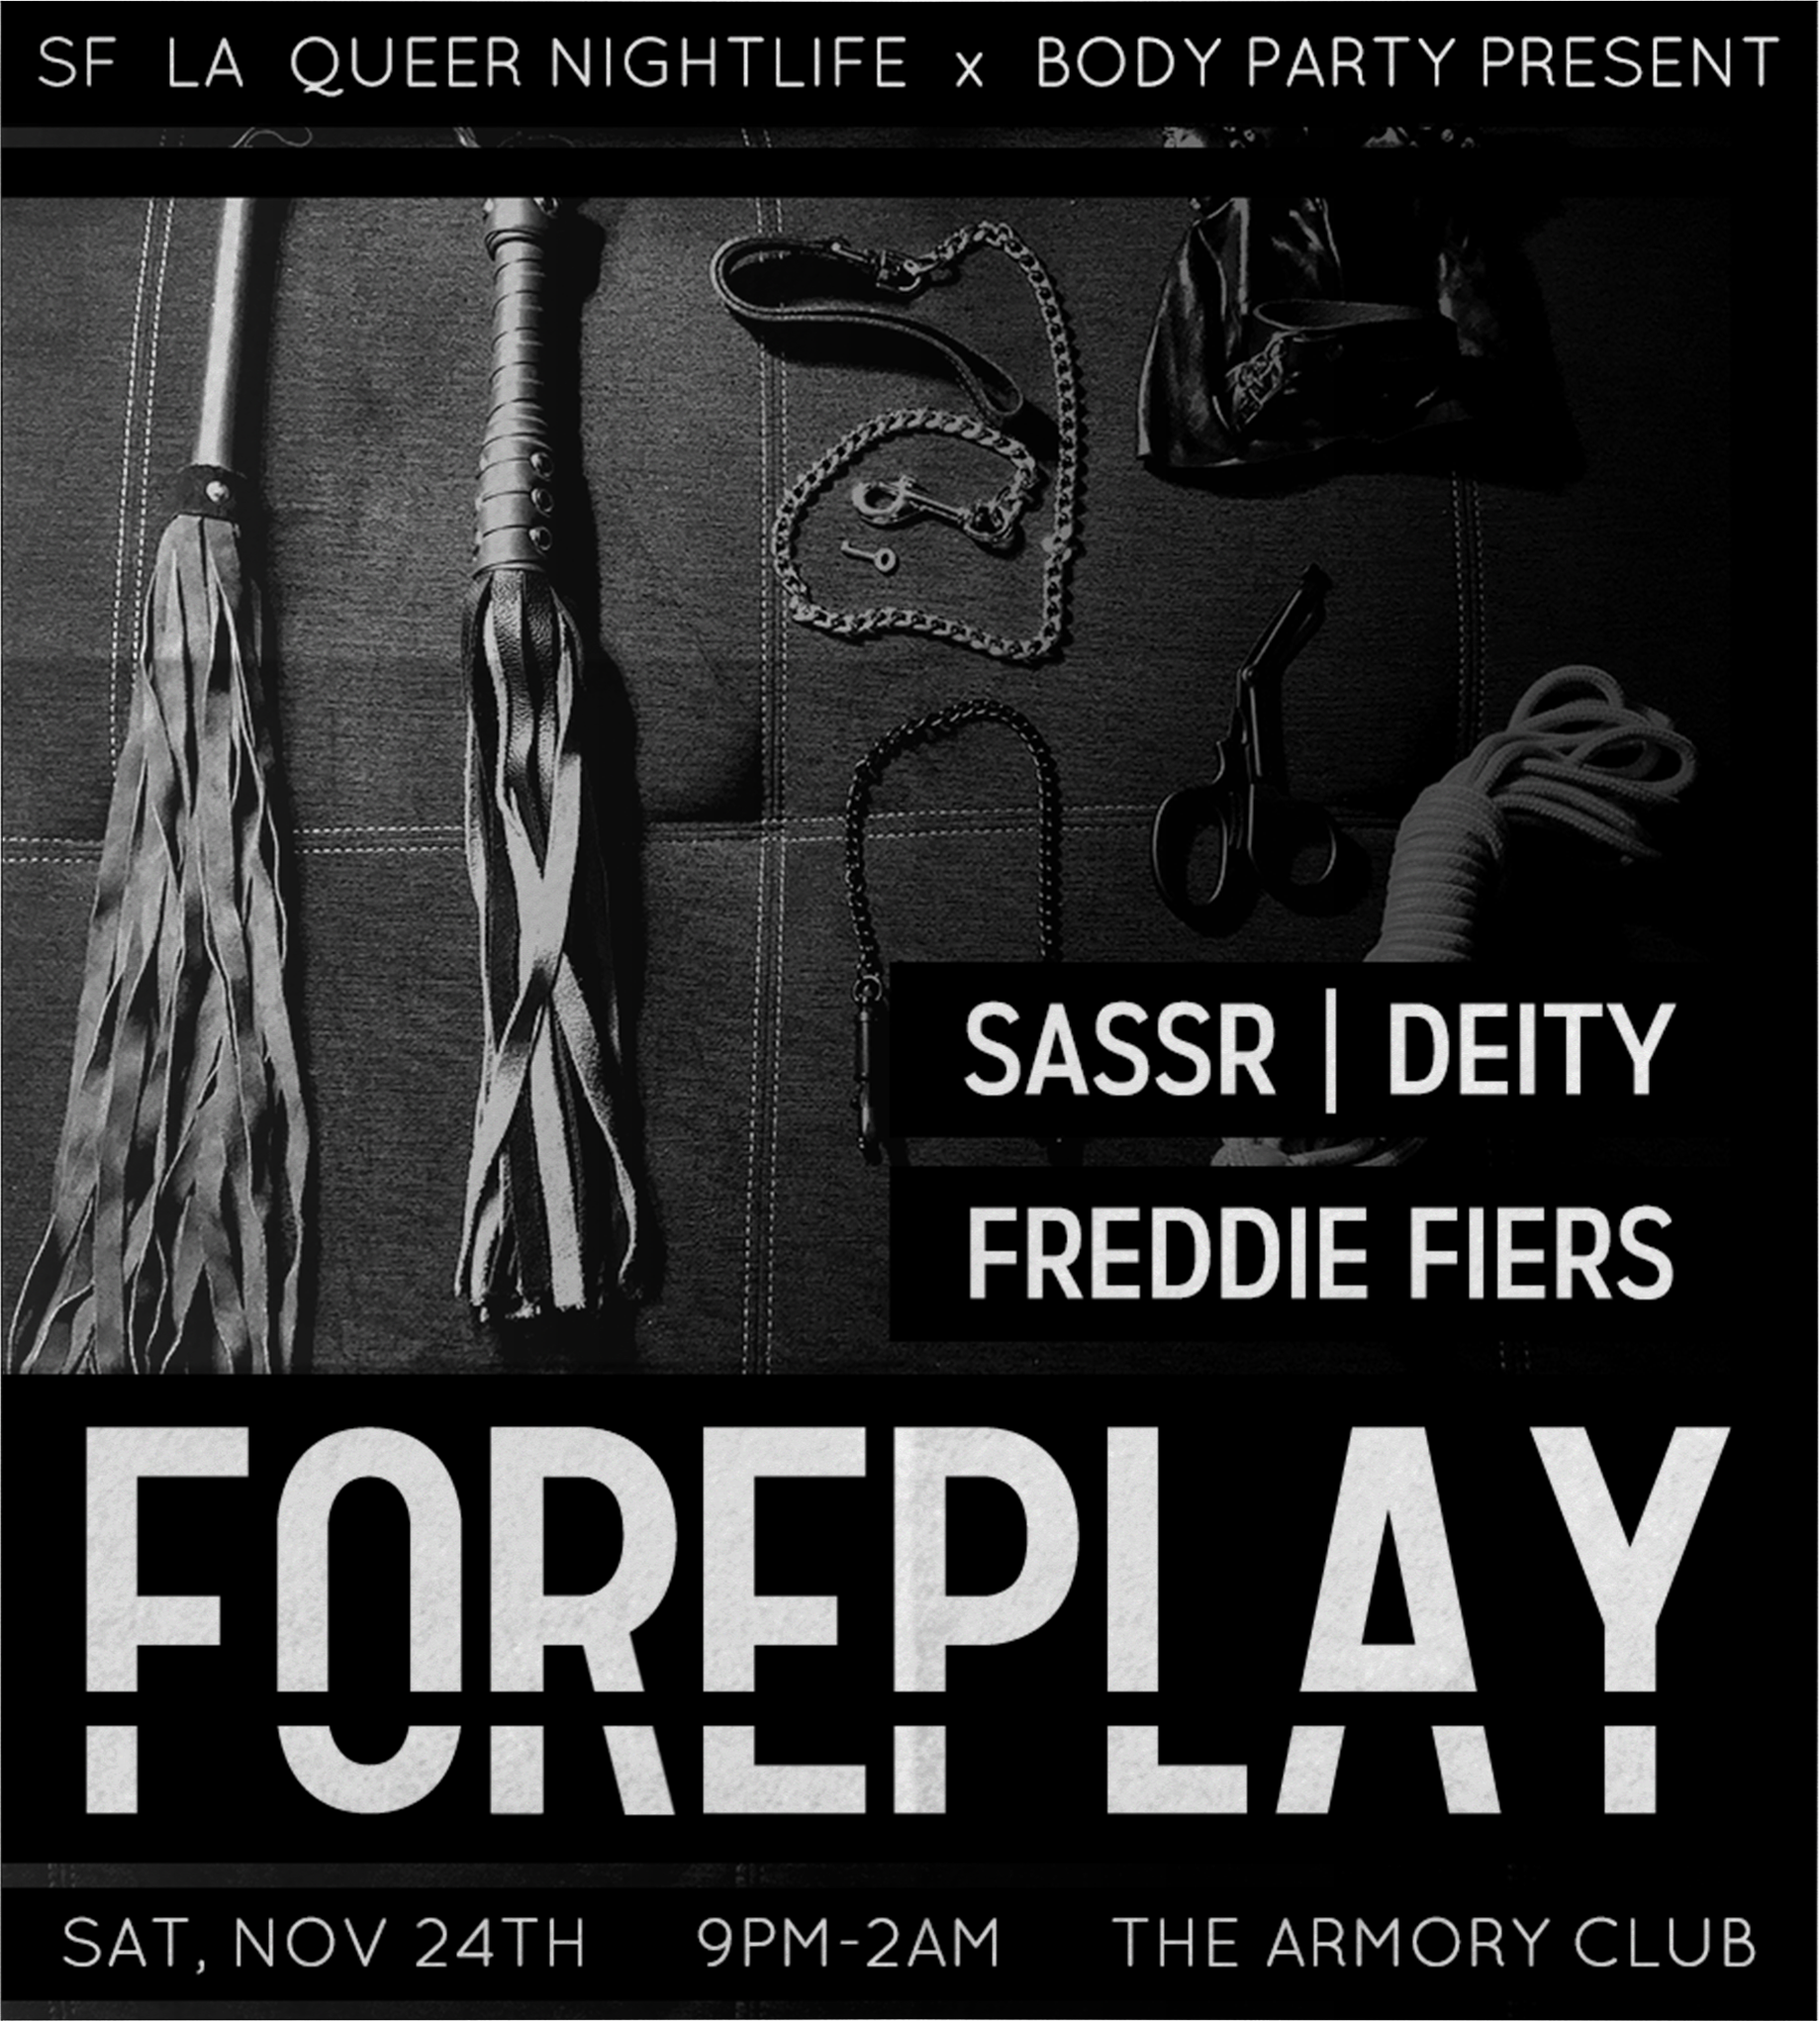
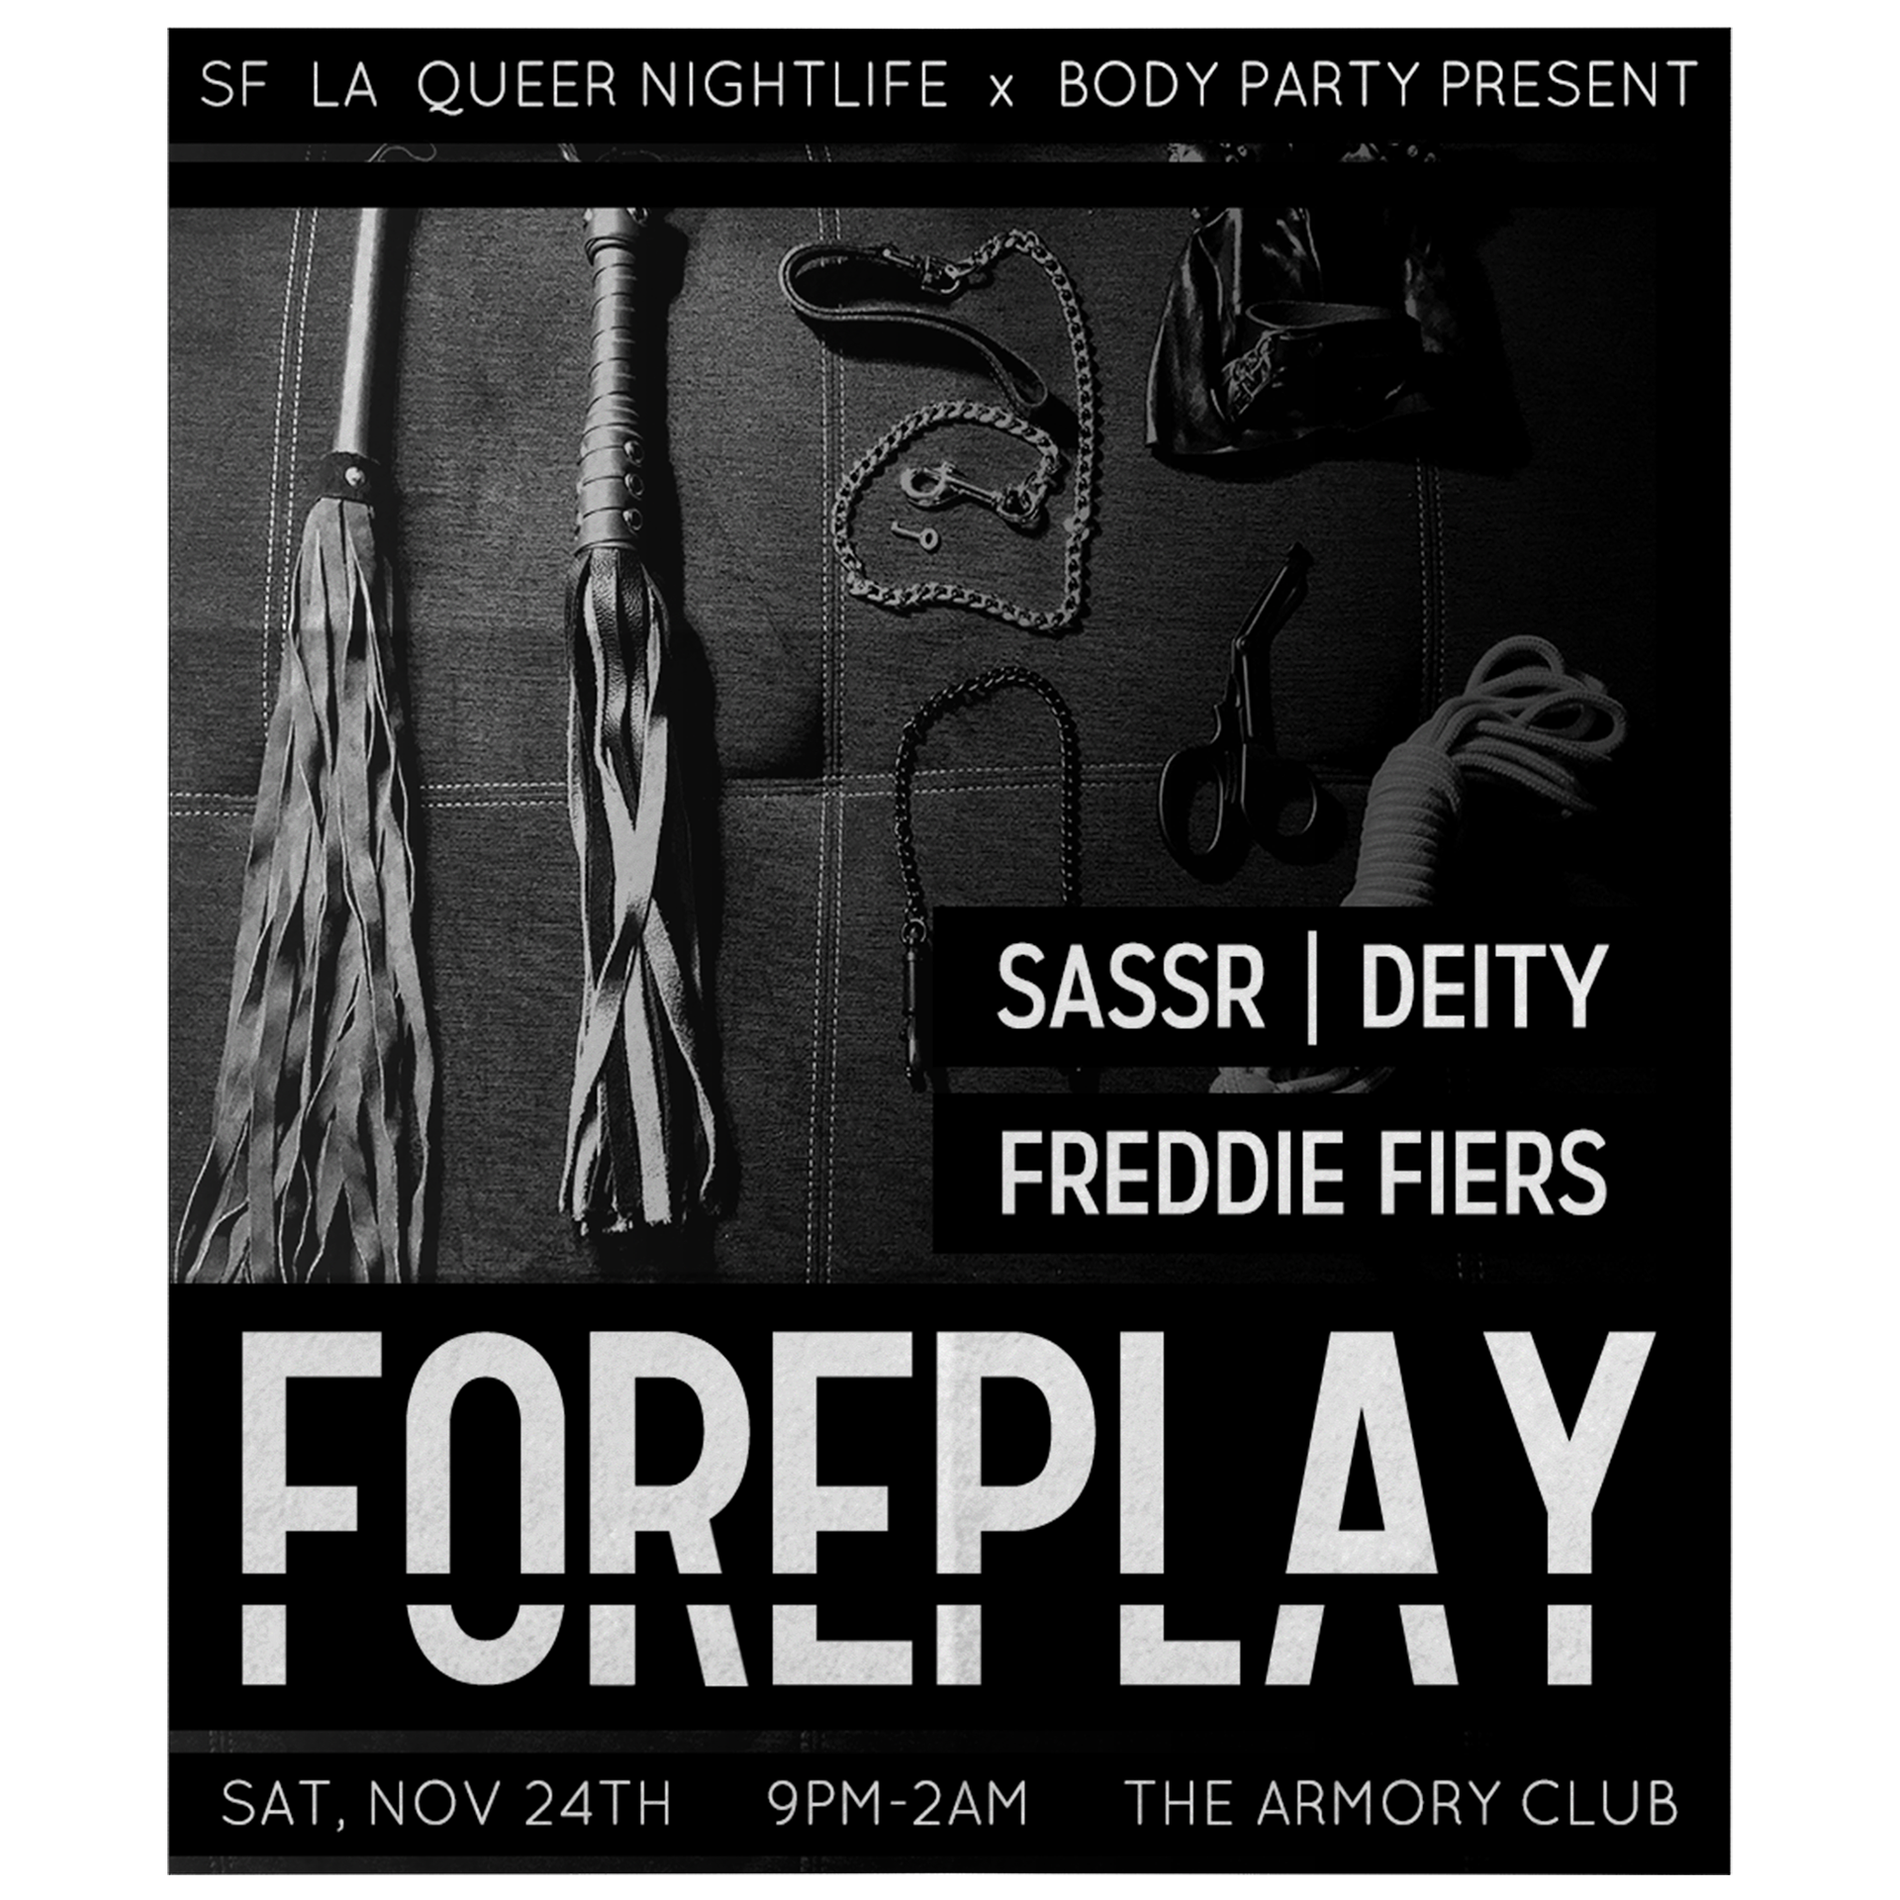
Flyers now rotate and are scaled correctly

diff --git a/design.html b/design.html
@@ -56,8 +56,8 @@
         <div id="section" class="row">
 
             <div class="row">
-                <div id="portfolioGrid" class="col-4">
-                    <img id="flyer" src="./assets/images/design/uniq01.png" alt="Flyer">
+                <div id="portfolioGrid" class="col">
+                    <img id="flyerOne" src="./assets/images/design/bob.png" alt="Flyer">
                 </div>
 
                 <div class="col">
@@ -65,23 +65,19 @@
                         Nightlife Flyers
                     </div>
                     <div id="info" class="row">
-                        <h4>Some of the events I worked on were brand new, others were already established and fairly successful, though having an eye-catching flyer can pull in an even larger crowd. I was given complete reign on revamping the imagery for older events, and in turn I became the go-to designer for several LGBT+ nightlife parties. Because of the success, I also had the opportunity to work on imagery for an event in Canada!</h4>
+                        <h4>Some of the events I worked on were brand new, others were already established and fairly
+                            successful, though having an eye-catching flyer can pull in an even larger crowd. I was
+                            given complete reign on revamping the imagery for older events, and in turn I became the
+                            go-to designer for several LGBT+ nightlife parties. Because of the success, I also had the
+                            opportunity to work on imagery for an event in Canada!</h4>
                     </div>
                 </div>
 
-                    <div id="portfolioGrid" class="col-4">
-                        <img id="flyer" src="./assets/images/design/tum.png" alt="Flyer">
-                    </div>
-
-
-
-
+                <div id="portfolioGrid" class="col">
+                    <img id="flyerTwo" src="./assets/images/design/tum.png" alt="Flyer">
+                </div>
 
             </div>
-
-
-
-
 
         </div>
 
@@ -98,7 +94,7 @@
         crossorigin="anonymous"></script>
 
     <!-- My JavaScript files -->
-    <script src="assets/scripts/script.js"></script>
+    <script src="assets/scripts/design.js"></script>
 
 
 </body>

diff --git a/assets/scripts/design.js b/assets/scripts/design.js
@@ -1,0 +1,68 @@
+
+// Redirects to landing page
+document.getElementById("navLogo").onclick = function () {
+    location.href = "./home.html";
+  };
+  // Redirects to design page
+  document.getElementById("designPage").onclick = function () {
+    location.href = "./design.html";
+  };
+  // Redirects to coding page
+  document.getElementById("codingPage").onclick = function () {
+    location.href = "./coding.html";
+  };
+  // Redirects to resume page
+  document.getElementById("resumePage").onclick = function () {
+    location.href = "./resume.html";
+  };
+  // Redirects to contact page
+  document.getElementById("contactPage").onclick = function () {
+    location.href = "./contact.html";
+  };
+  
+
+
+var flyerOneImages = ["./assets/images/design/bob.png",
+    "./assets/images/design/uniq01.png",
+    "./assets/images/design/space01.png",
+    "./assets/images/design/vamp.png"];
+
+var flyerTwoImages = ["./assets/images/design/tum.png",
+    "./assets/images/design/uniq02.png",
+    "./assets/images/design/space02.png",
+    "./assets/images/design/foreplay.png"];
+
+
+var flyerOne = document.getElementById("flyerOne");
+var flyerTwo = document.getElementById("flyerTwo");
+
+var flyerOneIndex = 0;
+var flyerTwoIndex = 0;
+var d = 0;
+var e = 0;
+
+
+
+function flyerOneTimer() {
+    if (++d % 2) {
+        flyerOne.style.opacity = 0;
+    } else {
+        flyerOne.src = flyerOneImages[flyerOneIndex = (flyerOneIndex + 1) % flyerOneImages.length];
+        flyerOne.style.opacity = 1;
+    }
+};
+
+function flyerTwoTimer() {
+    if (++e % 2) {
+        flyerTwo.style.opacity = 0;
+    } else {
+        flyerTwo.src = flyerTwoImages[flyerTwoIndex = (flyerTwoIndex + 1) % flyerTwoImages.length];
+        flyerTwo.style.opacity = 1;
+    }
+};
+
+setInterval(function () {
+
+    flyerOneTimer();
+    flyerTwoTimer();
+}, 4000);

diff --git a/assets/scripts/script.js b/assets/scripts/script.js
@@ -23,7 +23,6 @@ document.getElementById("contactPage").onclick = function () {
 
 
 
-
 var chickenImages = ["./assets/images/coding/ct-01.png",
   "./assets/images/coding/ct-02.png",
   "./assets/images/coding/ct-03.png",
@@ -51,34 +50,33 @@ var a = 0;
 var b = 0;
 var c = 0;
 
-
-
 function ctTimer() {
   if (++a % 2) {
-      ctImages.style.opacity = 0;
+    ctImages.style.opacity = 0;
   } else {
-      ctImages.src = chickenImages[ctIndex = (ctIndex + 1) % chickenImages.length];
-      ctImages.style.opacity = 1;
+    ctImages.src = chickenImages[ctIndex = (ctIndex + 1) % chickenImages.length];
+    ctImages.style.opacity = 1;
   }
 };
 
 function wtTimer() {
   if (++b % 2) {
-      wtImages.style.opacity = 0;
+    wtImages.style.opacity = 0;
   } else {
-      wtImages.src = trippinImages[wtIndex = (wtIndex + 1) % trippinImages.length];
-      wtImages.style.opacity = 1;
+    wtImages.src = trippinImages[wtIndex = (wtIndex + 1) % trippinImages.length];
+    wtImages.style.opacity = 1;
   }
 };
 
 function cuTimer() {
   if (++c % 2) {
-      cuImages.style.opacity = 0;
+    cuImages.style.opacity = 0;
   } else {
-      cuImages.src = currencyImages[cuIndex = (cuIndex + 1) % currencyImages.length];
-      cuImages.style.opacity = 1;
+    cuImages.src = currencyImages[cuIndex = (cuIndex + 1) % currencyImages.length];
+    cuImages.style.opacity = 1;
   }
 };
+
 
 setInterval(function () {
   ctTimer();

diff --git a/assets/css/design.css b/assets/css/design.css
@@ -1,8 +1,12 @@
-#flyer {
+
+#portfolioGrid {
+    display: grid;
+}
+
+#flyerOne, #flyerTwo {
     width: 100%;
     grid-area: 1 / 1;
     transition: opacity 3s;
-    margin-top: 40px;
 }
 
 #appName {
